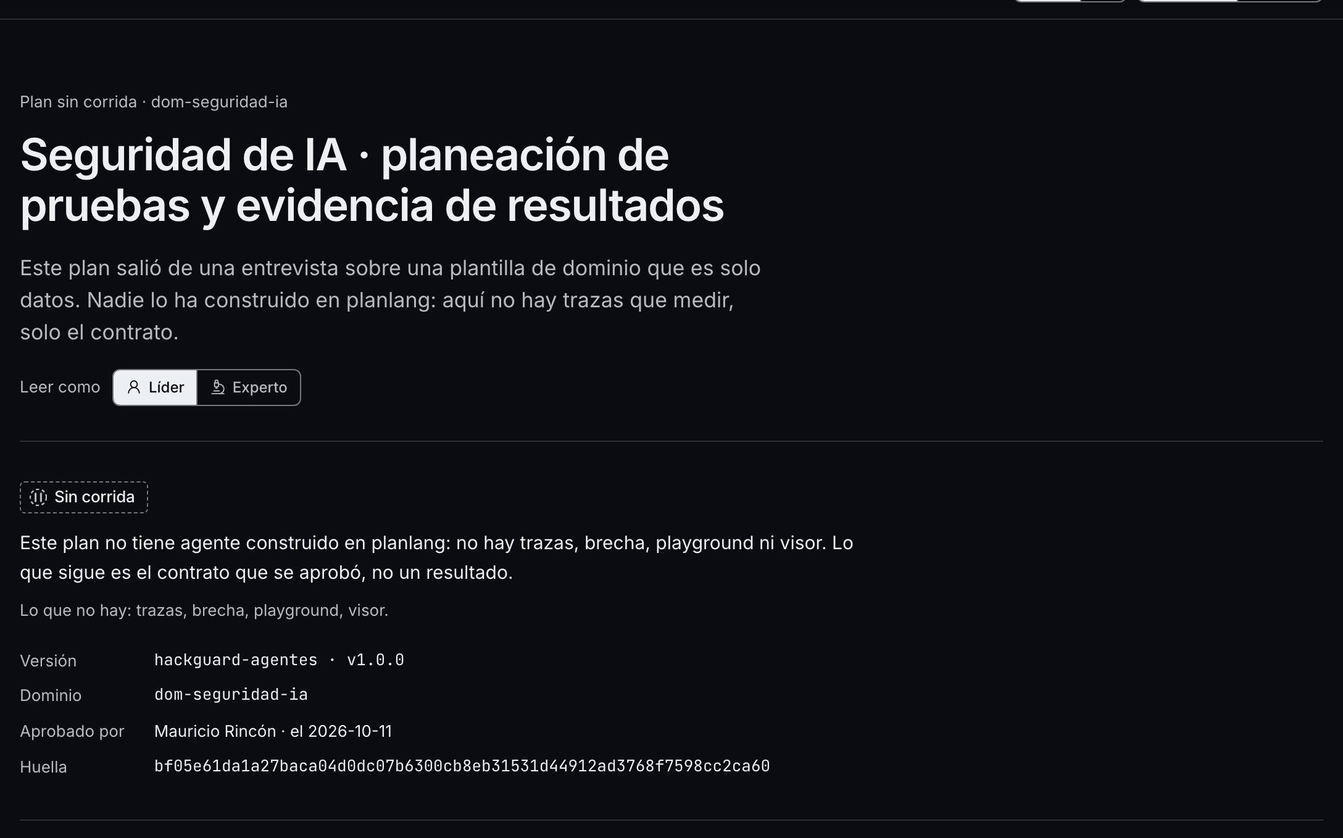
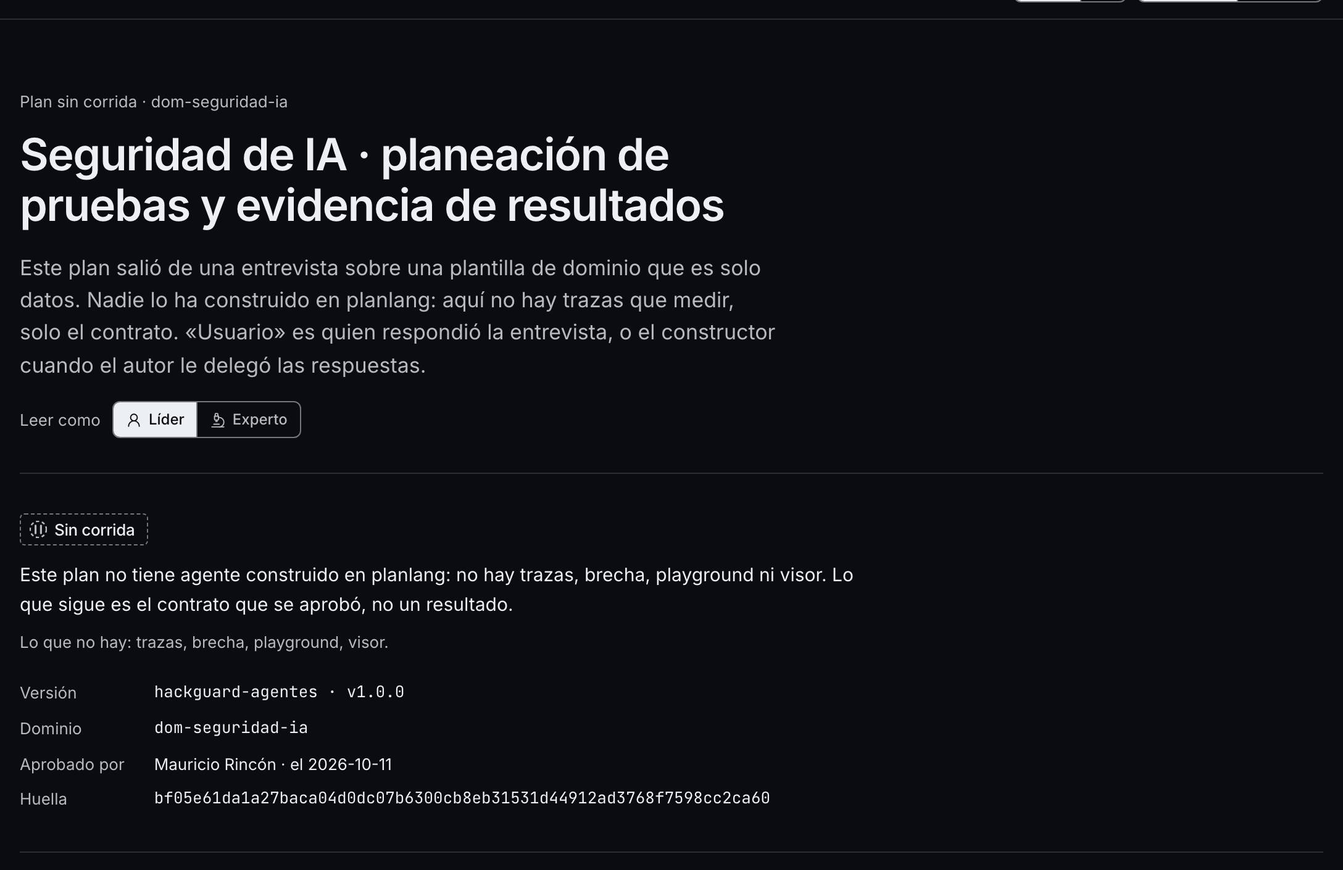
fix(audit): pay the medium findings of the plan without a run that cost less than noting them [F3]
M-1 (part): enums in words via the existing vocabularies (reversibility,
criticality, state, actor type, operator with its symbol), criteria show their
condition. M-2: four symbols without a reader removed. M-3: the portada says
what «usuario» means when answers were delegated; the entry chip is
«declarado», not «real». M-4: ids that name a demo (demo-*, plan-demo-*) are
rejected in TS and Python, with tests. M-5/M-6: manual and fichas no longer say
there are only two domain templates. B-1: the test comment tells the truth.
B-4: the guide's c5/c6 items are no longer nested inside s6.

Captures regenerated and read as image, 4 of 4; full unit suite 4257 passed;
e2e 225 passed, 3 skipped.

diff --git a/docs/fidelidad/s5-planes/index.html b/docs/fidelidad/s5-planes/index.html
@@ -27,8 +27,8 @@ table{border-collapse:collapse;width:100%;font-size:13px;margin-top:8px}th,td{bo
 <tbody>
 <tr><td>1</td><td>Entrada (/es), sección «Planes sin corrida»</td><td>tal como abre</td><td>Una fila por plan aprobado sin corrida, después de «Los demos»: nombre, id y versión, dominio, quién aprobó y cuándo, y el botón «Leer el plan».</td><td>Una sola fila: el plan de HackGuard (hackguard-agentes · v1.0.0 · dom-seguridad-ia), aprobado el 2026-10-11, con su chip «real · plan aprobado». Nada dice que haya corrido.</td><td>sin respuesta</td></tr>
 <tr><td>2</td><td>Plan sin corrida (/es/planes/hackguard-agentes), portada y ficha</td><td>tal como abre</td><td>Lo primero que se lee después del título: el rótulo «Sin corrida» con su símbolo, la nota de lo que NO hay y la ficha (versión, dominio, aprobado por, huella).</td><td>El rótulo «Sin corrida» se lee antes que cualquier sección del plan; la nota nombra trazas, brecha, playground y visor como ausentes; la ficha dice «Mauricio Rincón · el 2026-10-11» y la huella entera.</td><td>sin respuesta</td></tr>
-<tr><td>3</td><td>Plan sin corrida, decisiones (teléfono)</td><td>tal como abre, 380 px</td><td>Cada decisión en tarjeta: id, pregunta, la opción elegida, la razón y la reversibilidad; sin desplazamiento lateral (como líder, sin chip de origen).</td><td>Cuatro decisiones (D1–D4), todas decididas. La razón cabe en la tarjeta y nada se corta a 380 px.</td><td>sin respuesta</td></tr>
-<tr><td>4</td><td>Plan sin corrida, umbrales y origen (pasada de interacción)</td><td>tras pulsar «Experto»</td><td>Que al pulsar «Experto» aparezca, en cada umbral, el chip de quién lo propuso; los tres umbrales con su señal, operador y valor del plan.</td><td>U1 similitud_cita menor_que 1 · U2 fuentes_verificadas menor_que 2 · U3 antiguedad_marco_dias mayor_que 180 días; los tres con el chip «usuario», que como líder no se veía. El conmutador marca «Experto».</td><td>sin respuesta</td></tr>
+<tr><td>3</td><td>Plan sin corrida, decisiones (teléfono)</td><td>tal como abre, 380 px</td><td>Cada decisión en tarjeta: id, pregunta, la opción elegida, la razón y la reversibilidad; sin desplazamiento lateral (como líder, sin chip de origen).</td><td>Cuatro decisiones (D1–D4), todas decididas; la reversibilidad en palabras («Dos vías», «Costosa»), no en código. La razón cabe en la tarjeta y nada se corta a 380 px.</td><td>sin respuesta</td></tr>
+<tr><td>4</td><td>Plan sin corrida, umbrales y origen (pasada de interacción)</td><td>tras pulsar «Experto»</td><td>Que al pulsar «Experto» aparezca, en cada umbral, el chip de quién lo propuso; los tres umbrales con su señal, operador y valor del plan.</td><td>U1 similitud_cita &lt; 1 (menor que) · U2 fuentes_verificadas &lt; 2 · U3 antiguedad_marco_dias &gt; 180 días (mayor que); los tres con el chip «usuario», que como líder no se veía. El conmutador marca «Experto».</td><td>sin respuesta</td></tr>
 </tbody></table>
 <h2>Los recortes</h2>
 <section class="forma" id="entrada-planes-sin-corrida"><h3>1. Entrada (/es), sección «Planes sin corrida»</h3><p>tal como abre · 1280 px · oscuro</p><img loading="lazy" src="forma-entrada-planes-sin-corrida.jpg" alt="Una fila por plan aprobado sin corrida, después de «Los demos»: nombre, id y versión, dominio, quién aprobó y cuándo, y el botón «Leer el plan»."></section>
@@ -38,14 +38,14 @@ table{border-collapse:collapse;width:100%;font-size:13px;margin-top:8px}th,td{bo
 <h2>La pasada completa (8 capturas)</h2>
 <p>La Entrada y el plan sin corrida, a 380 y 1280 px, en español en los dos temas.. La miniatura es la parte de arriba; la huella identifica la captura entera que se leyó.</p>
 <div class="minis">
-<figure><img loading="lazy" src="mini-entrada-380-oscuro-es.jpg" alt="entrada 380 px oscuro es"><figcaption>entrada · 380 · oscuro · es<br><code title="SHA-256 de la captura entera">187f3c2d5ee1…</code></figcaption></figure>
-<figure><img loading="lazy" src="mini-entrada-1280-oscuro-es.jpg" alt="entrada 1280 px oscuro es"><figcaption>entrada · 1280 · oscuro · es<br><code title="SHA-256 de la captura entera">dfc4de46c8c5…</code></figcaption></figure>
-<figure><img loading="lazy" src="mini-entrada-380-claro-es.jpg" alt="entrada 380 px claro es"><figcaption>entrada · 380 · claro · es<br><code title="SHA-256 de la captura entera">c10df67208d3…</code></figcaption></figure>
-<figure><img loading="lazy" src="mini-entrada-1280-claro-es.jpg" alt="entrada 1280 px claro es"><figcaption>entrada · 1280 · claro · es<br><code title="SHA-256 de la captura entera">66a01f788665…</code></figcaption></figure>
-<figure><img loading="lazy" src="mini-plan-sin-corrida-380-oscuro-es.jpg" alt="plan-sin-corrida 380 px oscuro es"><figcaption>plan-sin-corrida · 380 · oscuro · es<br><code title="SHA-256 de la captura entera">3313257a71a9…</code></figcaption></figure>
-<figure><img loading="lazy" src="mini-plan-sin-corrida-1280-oscuro-es.jpg" alt="plan-sin-corrida 1280 px oscuro es"><figcaption>plan-sin-corrida · 1280 · oscuro · es<br><code title="SHA-256 de la captura entera">ebf0039abc5a…</code></figcaption></figure>
-<figure><img loading="lazy" src="mini-plan-sin-corrida-380-claro-es.jpg" alt="plan-sin-corrida 380 px claro es"><figcaption>plan-sin-corrida · 380 · claro · es<br><code title="SHA-256 de la captura entera">451575e817f7…</code></figcaption></figure>
-<figure><img loading="lazy" src="mini-plan-sin-corrida-1280-claro-es.jpg" alt="plan-sin-corrida 1280 px claro es"><figcaption>plan-sin-corrida · 1280 · claro · es<br><code title="SHA-256 de la captura entera">b8b5f218d490…</code></figcaption></figure>
+<figure><img loading="lazy" src="mini-entrada-380-oscuro-es.jpg" alt="entrada 380 px oscuro es"><figcaption>entrada · 380 · oscuro · es<br><code title="SHA-256 de la captura entera">94daf82923a4…</code></figcaption></figure>
+<figure><img loading="lazy" src="mini-entrada-1280-oscuro-es.jpg" alt="entrada 1280 px oscuro es"><figcaption>entrada · 1280 · oscuro · es<br><code title="SHA-256 de la captura entera">91b995d651c6…</code></figcaption></figure>
+<figure><img loading="lazy" src="mini-entrada-380-claro-es.jpg" alt="entrada 380 px claro es"><figcaption>entrada · 380 · claro · es<br><code title="SHA-256 de la captura entera">f4e5129a46f8…</code></figcaption></figure>
+<figure><img loading="lazy" src="mini-entrada-1280-claro-es.jpg" alt="entrada 1280 px claro es"><figcaption>entrada · 1280 · claro · es<br><code title="SHA-256 de la captura entera">625f4fe9fa51…</code></figcaption></figure>
+<figure><img loading="lazy" src="mini-plan-sin-corrida-380-oscuro-es.jpg" alt="plan-sin-corrida 380 px oscuro es"><figcaption>plan-sin-corrida · 380 · oscuro · es<br><code title="SHA-256 de la captura entera">a5cddbca5fa5…</code></figcaption></figure>
+<figure><img loading="lazy" src="mini-plan-sin-corrida-1280-oscuro-es.jpg" alt="plan-sin-corrida 1280 px oscuro es"><figcaption>plan-sin-corrida · 1280 · oscuro · es<br><code title="SHA-256 de la captura entera">852d0bc47729…</code></figcaption></figure>
+<figure><img loading="lazy" src="mini-plan-sin-corrida-380-claro-es.jpg" alt="plan-sin-corrida 380 px claro es"><figcaption>plan-sin-corrida · 380 · claro · es<br><code title="SHA-256 de la captura entera">9fdfc0d79bac…</code></figcaption></figure>
+<figure><img loading="lazy" src="mini-plan-sin-corrida-1280-claro-es.jpg" alt="plan-sin-corrida 1280 px claro es"><figcaption>plan-sin-corrida · 1280 · claro · es<br><code title="SHA-256 de la captura entera">e672debce4e2…</code></figcaption></figure>
 </div>
 </main></body>
 </html>

diff --git a/docs/GUIA-DE-PRUEBA.html b/docs/GUIA-DE-PRUEBA.html
@@ -228,9 +228,9 @@
         <span class="minimo"><span class="es">⭐ mínimo</span><span class="en" lang="en">⭐ minimum</span></span></label></li>
       <li data-origen="mejorado" data-minimo><input type="checkbox" id="s6"><label for="s6"><span class="es">En el demo A, abre Brecha y busca un caso con borde punteado (por ejemplo, en la fila de S3). Esperado: no enlaza a ninguna página y lo dice al lector de pantalla («sin página propia»); los que tienen página sí enlazan. Abre después A-016: la instrucción escondida va marcada aparte y el relato no la cuenta dos veces.</span><span class="en" lang="en">In demo A, open Gap and look for a case with a dotted border (for example, in the S3 row). Expected: it links to no page and tells the screen reader so (“no page of its own”); the ones with a page do link. Then open A-016: the hidden instruction is marked apart and the account does not tell it twice.</span>
         <span class="origen origen-mejorado"><span class="es">Mejorado en S4</span><span class="en" lang="en">Improved in S4</span></span>
+        <span class="minimo"><span class="es">⭐ mínimo</span><span class="en" lang="en">⭐ minimum</span></span></label></li>
       <li data-origen="nuevo" data-minimo><input type="checkbox" id="c5"><label for="c5"><span class="es">En la entrada, pulsa «Comparar» en la fila del demo A. Esperado: la pantalla «Comparar dos corridas», con «Cumple» en la multiagente y «Cumple con alertas» en la de agente único. Desde ahí, pulsa un caso de los que difieren: llegas a su página.</span><span class="en" lang="en">On the home page, press «Compare» on demo A's row. Expected: the «Compare two runs» screen, with «Meets» for the multi-agent run and «Meets with alerts» for the single-agent one. From there, press one of the cases that differ: you reach its page.</span><span class="origen origen-nuevo"><span class="es">Nuevo · S4</span><span class="en" lang="en">New · S4</span></span><span class="minimo"><span class="es">⭐ mínimo</span><span class="en" lang="en">⭐ minimum</span></span></label></li>
       <li data-origen="nuevo" data-minimo><input type="checkbox" id="c6"><label for="c6"><span class="es">En la entrada, baja hasta «Planes sin corrida» y pulsa «Leer el plan» en la fila de HackGuard. Esperado: la página abre con el rótulo «Sin corrida» y dice lo que no hay (trazas, brecha, playground, visor) antes de cualquier sección del plan; la ficha dice quién lo aprobó y cuándo, y la huella entera. Pulsa «Experto»: en cada decisión, riesgo y umbral aparece quién lo propuso (plantilla, entrevistador o usuario). ¿Se entiende, sin leer el repo, que esto es un contrato y no un resultado?</span><span class="en" lang="en">On the home page, scroll down to «Plans without a run» and press «Read the plan» on HackGuard's row. Expected: the page opens with the «No run» label and says what is missing (traces, gap, playground, viewer) before any section of the plan; the record says who approved it and when, and the full fingerprint. Press «Expert»: every decision, risk and threshold shows who proposed it (template, interviewer or user). Can you tell, without reading the repo, that this is a contract and not a result?</span><span class="origen origen-nuevo"><span class="es">Nuevo · S5</span><span class="en" lang="en">New · S5</span></span><span class="minimo"><span class="es">⭐ mínimo</span><span class="en" lang="en">⭐ minimum</span></span></label></li>
-        <span class="minimo"><span class="es">⭐ mínimo</span><span class="en" lang="en">⭐ minimum</span></span></label></li>
       <li data-origen="nuevo" data-minimo><input type="checkbox" id="s7"><label for="s7"><span class="es">En Fichas del demo B, lee la ficha del agente B como la vería alguien en tu hoja de vida. ¿La reconoces? ¿Algo promete más de lo que se midió?</span><span class="en" lang="en">On demo B's Records, read agent B's record as someone on your CV site would. Do you recognise it? Does anything promise more than what was measured?</span>
         <span class="origen origen-nuevo"><span class="es">Nuevo · S3</span><span class="en" lang="en">New · S3</span></span>
         <span class="minimo"><span class="es">⭐ mínimo</span><span class="en" lang="en">⭐ minimum</span></span></label></li>

diff --git a/src/lib/vista/plan-sin-corrida.ts b/src/lib/vista/plan-sin-corrida.ts
@@ -15,7 +15,15 @@ import {
   FICHA_SIN_CORRIDA,
   ORIGEN,
   SECCIONES,
+  TIPO_ACTOR,
 } from "@/textos/plan-sin-corrida";
+import {
+  CRITICIDAD,
+  ESTADO_SUPUESTO,
+  REVERSIBILIDAD,
+} from "@/textos/plan-comun";
+import { OPERADOR, SIMBOLO } from "@/textos/playground";
+import { delVocabulario } from "./vocabulario";
 
 export type Origen = keyof Omit<typeof ORIGEN, "sinOrigen">;
 
@@ -47,6 +55,14 @@ export interface VistaSinCorrida {
 
 const T = (x: TextoBilingue, i: Idioma): string => x[i];
 const L = (x: TextoLibre, i: Idioma): string => comoBilingue(x)[i];
+
+/** Un valor del plan en palabras: el vocabulario de la vitrina, no el enum crudo (AU-S5 M-1). */
+const palabra = (
+  voc: Readonly<Record<string, TextoBilingue>>,
+  valor: string,
+  donde: string,
+  i: Idioma,
+): string => delVocabulario(voc, valor, donde)[i];
 
 /** El origen en el idioma de la página; un elemento sin origen lo dice, no lo inventa. */
 function origenDe(x: { origen?: Origen }, i: Idioma): string {
@@ -84,7 +100,14 @@ export function vistaSinCorrida(p: Plan, i: Idioma): VistaSinCorrida {
         elementos: p.actores.map((a) => ({
           id: a.id,
           titulo: T({ es: a.es, en: a.en }, i),
-          detalle: [a.tipo],
+          detalle: [
+            palabra(
+              TIPO_ACTOR,
+              a.tipo,
+              "TIPO_ACTOR (src/textos/plan-sin-corrida.ts)",
+              i,
+            ),
+          ],
           origen: origenDe(a, i),
         })),
       },
@@ -101,7 +124,7 @@ export function vistaSinCorrida(p: Plan, i: Idioma): VistaSinCorrida {
             ...(d.justificacion
               ? [`${T(ETIQUETA.razon, i)}: ${T(d.justificacion, i)}`]
               : []),
-            `${T(ETIQUETA.reversibilidad, i)}: ${d.reversibilidad}`,
+            `${T(ETIQUETA.reversibilidad, i)}: ${palabra(REVERSIBILIDAD, d.reversibilidad, "REVERSIBILIDAD (src/textos/plan-comun.ts)", i)}`,
           ],
           origen: origenDe(d, i),
         })),
@@ -124,7 +147,9 @@ export function vistaSinCorrida(p: Plan, i: Idioma): VistaSinCorrida {
         elementos: p.supuestos.map((s) => ({
           id: s.id,
           titulo: T(s.enunciado, i),
-          detalle: [`${s.criticidad} · ${s.estado}`],
+          detalle: [
+            `${palabra(CRITICIDAD, s.criticidad, "CRITICIDAD (src/textos/plan-comun.ts)", i)} · ${palabra(ESTADO_SUPUESTO, s.estado, "ESTADO_SUPUESTO (src/textos/plan-comun.ts)", i)}`,
+          ],
           origen: origenDe(s, i),
         })),
       },
@@ -135,7 +160,8 @@ export function vistaSinCorrida(p: Plan, i: Idioma): VistaSinCorrida {
           id: k.id,
           titulo: T(k.enunciado, i),
           detalle: [
-            `${T(ETIQUETA.objetivo, i)}: ${String(k.valor_objetivo)} · ${T(ETIQUETA.criterio, i)}: ${k.regla_de_medicion.agregacion}`,
+            `${T(ETIQUETA.objetivo, i)}: ${String(k.valor_objetivo)} · ${k.regla_de_medicion.agregacion}`,
+            `${T(ETIQUETA.criterio, i)}: ${k.regla_de_medicion.condicion ?? k.regla_de_medicion.metrica ?? ""} · ${k.regla_de_medicion.poblacion}`,
           ],
           origen: origenDe(k, i),
         })),
@@ -147,7 +173,7 @@ export function vistaSinCorrida(p: Plan, i: Idioma): VistaSinCorrida {
           id: u.id,
           titulo: T(u.nombre, i),
           detalle: [
-            `${u.senal} ${u.operador} ${String(u.valor_en_plan)}${u.unidad ? ` ${L(u.unidad, i)}` : ""}`,
+            `${u.senal} ${SIMBOLO[u.operador]} ${String(u.valor_en_plan)}${u.unidad ? ` ${L(u.unidad, i)}` : ""} (${palabra(OPERADOR, u.operador, "OPERADOR (src/textos/playground.ts)", i)})`,
           ],
           origen: origenDe(u, i),
         })),

diff --git a/src/textos/plan-sin-corrida.ts b/src/textos/plan-sin-corrida.ts
@@ -32,7 +32,12 @@ export const SECCIONES = {
   criterios: tb("Criterios de aceptación", "Acceptance criteria"),
   umbrales: tb("Umbrales", "Thresholds"),
   contrato: tb("Contrato del grafo", "Graph contract"),
-  lotes: tb("Lotes", "Batches"),
+};
+
+/** El tipo de un actor (`core/plan/esquema.ts` TIPO_ACTOR), en palabras. */
+export const TIPO_ACTOR = {
+  humano: tb("persona", "person"),
+  sistema: tb("sistema", "system"),
 };
 
 export const ETIQUETA = {
@@ -49,11 +54,9 @@ export const ETIQUETA = {
   deteccion: tb("Detección", "Detection"),
   criterio: tb("Regla de medición", "Measurement rule"),
   objetivo: tb("Objetivo", "Target"),
-  valorEnPlan: tb("Valor en el plan", "Value in the plan"),
   nodos: tb("nodos", "nodes"),
   aristas: tb("aristas condicionales", "conditional edges"),
   pausas: tb("pausas humanas", "human pauses"),
-  sinValor: tb("sin valor todavía", "no value yet"),
 };
 
 export const TITULO_PAGINA = (id: string) => tb(`Plan ${id}`, `Plan ${id}`);
@@ -65,8 +68,8 @@ export const DESCRIPCION_PAGINA = tb(
 export const PORTADA = {
   antetitulo: tb("Plan sin corrida", "Plan without a run"),
   guia: tb(
-    "Este plan salió de una entrevista sobre una plantilla de dominio que es solo datos. Nadie lo ha construido en planlang: aquí no hay trazas que medir, solo el contrato.",
-    "This plan came from an interview over a domain template that is only data. No one has built it in planlang: there are no traces to measure here, only the contract.",
+    "Este plan salió de una entrevista sobre una plantilla de dominio que es solo datos. Nadie lo ha construido en planlang: aquí no hay trazas que medir, solo el contrato. «Usuario» es quien respondió la entrevista, o el constructor cuando el autor le delegó las respuestas.",
+    "This plan came from an interview over a domain template that is only data. No one has built it in planlang: there are no traces to measure here, only the contract. «User» is whoever answered the interview, or the builder when the author delegated the answers.",
   ),
   origenes: tb(
     "Quién propuso cada elemento: la plantilla del dominio, el entrevistador o la persona que respondió.",
@@ -82,7 +85,7 @@ export const ENTRADA = {
     "Planned with the interviewer over a new domain. No agent, no traces: only the contract.",
   ),
   abrir: tb("Leer el plan", "Read the plan"),
-  chip: tb("real · plan aprobado", "real · approved plan"),
+  chip: tb("plan aprobado · sin corrida", "approved plan · no run"),
   columnas: {
     plan: tb("Plan", "Plan"),
     dominio: tb("Dominio", "Domain"),

diff --git a/tests/unit/core/plan/dominio-nuevo.test.ts b/tests/unit/core/plan/dominio-nuevo.test.ts
@@ -1,7 +1,9 @@
 /**
- * «Un dominio nuevo no toca `core/`» (S5, promesa D6): el CLI acepta cualquier plantilla de `data/dominios/` y cualquier
+ * «Un dominio nuevo es solo datos» (S5, promesa D6): el CLI acepta cualquier plantilla de `data/dominios/` y cualquier
  * id de plan; los demos siguen funcionando igual; y la plantilla `dom-seguridad-ia` es solo un archivo de datos que
- * pasa el esquema de dominio (el recorrido de la entrevista lo prueba el gate de contrato).
+ * pasa el esquema de dominio (el recorrido de la entrevista lo prueba el gate de contrato). Hallazgo del sprint: la
+ * revisión del borrador (`core/plan/revision.ts`) suponía que todo plan era `plan-demo-<x>`; se generalizó con
+ * `objetivoDelPlan`. Ningún módulo de `core/` nombra un dominio, y eso sí se vigila aquí.
  */
 import { existsSync, readdirSync, readFileSync } from "node:fs";
 import { describe, expect, it } from "vitest";
@@ -45,6 +47,9 @@ describe("el CLI entrevista un demo o un plan real", () => {
       { dominio: "dom-financiero", plan: "a/../b" },
       { dominio: "dom-financiero", plan: "a b" },
       { dominio: "dom-financiero", plan: true },
+      // El nombre de un demo (AU-S5 M-4): compartiría carpeta, hilo y revisión con él.
+      { dominio: "dom-financiero", plan: "demo-b" },
+      { dominio: "dom-financiero", plan: "plan-demo-x" },
     ];
     for (const a of rechazados)
       expect(objetivoDeEntrevista(a), JSON.stringify(a)).toBeNull();

diff --git a/tests/unit/vitrina/plan-sin-corrida.test.ts b/tests/unit/vitrina/plan-sin-corrida.test.ts
@@ -69,6 +69,26 @@ describe("vistaSinCorrida", () => {
     expect(decisionesUsuario).toBe(p.decisiones.length);
   });
 
+  it("ningún enum del plan sale crudo: reversibilidad, criticidad, estado, tipo de actor y operador van en palabras (AU-S5 M-1)", async () => {
+    const p = await aprobado();
+    for (const i of ["es", "en"] as const) {
+      const v = vistaSinCorrida(p, i);
+      const detalles = v.secciones.flatMap((s) =>
+        s.elementos.flatMap((e) => e.detalle),
+      );
+      for (const d of detalles)
+        expect(d).not.toMatch(
+          /\b(una_via|dos_vias|costosa|sin_probar|menor_que|mayor_que|menor_o_igual_que|mayor_o_igual_que|igual_a|distinto_de)\b/,
+        );
+    }
+    const dec = vistaSinCorrida(p, "es").secciones.find(
+      (s) => s.id === "decisiones",
+    )!.elementos[0]!;
+    expect(dec.detalle.at(-1)).toMatch(
+      /^Reversibilidad: (Una vía|Dos vías|Costosa)$/,
+    );
+  });
+
   it("los umbrales dicen su señal, su operador y su valor del plan, sin unidad inventada", async () => {
     const p = await aprobado();
     const umbral = vistaSinCorrida(p, "en").secciones.find(

diff --git a/scripts/entrevistar.ts b/scripts/entrevistar.ts
@@ -36,6 +36,8 @@ const USO_OBJETIVO = `(--demo ${DEMOS_ENTREVISTABLES.join("|")} | --dominio <id>
 const SALIDA_GUARDADA = 3;
 /** El mismo patrón de id estable que el plan: va al nombre de una carpeta, así que nada de barras ni `..`. */
 const ID_ESTABLE = /^[A-Za-z][A-Za-z0-9_-]*$/;
+/** Lo que nombra a un demo (`demo-b`, `plan-demo-b`): un plan real no puede compartir carpeta, hilo ni revisión con uno (AU-S5 M-4). */
+const DE_DEMO = /^(plan-)?demo-/;
 
 /** Qué se entrevista y dónde queda: un demo (`--demo b`) o un plan real (`--dominio <id> --plan <id>`). */
 export interface ObjetivoDeEntrevista {
@@ -59,7 +61,8 @@ export function objetivoDeEntrevista(
     typeof dominio === "string" &&
     typeof plan === "string" &&
     ID_ESTABLE.test(dominio) &&
-    ID_ESTABLE.test(plan)
+    ID_ESTABLE.test(plan) &&
+    !DE_DEMO.test(plan)
   )
     return {
       pasar: ["--dominio", dominio, "--plan", plan],

diff --git a/src/textos/fichas.ts b/src/textos/fichas.ts
@@ -1028,8 +1028,8 @@ export const APP = {
             "Domain templates as data",
           ),
           que_hace: tb(
-            "Actores, decisiones, riesgos y criterios típicos de salud y de vinculación financiera, con las restricciones legales en lenguaje llano y con su fuente.",
-            "Typical actors, decisions, risks and criteria for health and financial onboarding, with the legal constraints in plain language and with their source.",
+            "Actores, decisiones, riesgos y criterios típicos de salud, de vinculación financiera y de seguridad de IA, con las restricciones legales en lenguaje llano y con su fuente.",
+            "Typical actors, decisions, risks and criteria for health, financial onboarding and AI security, with the legal constraints in plain language and with their source.",
           ),
           seccion_manual: tb("Validar un plan", "Validate a plan"),
         },

diff --git a/src/components/entrada/planes.tsx b/src/components/entrada/planes.tsx
@@ -64,7 +64,7 @@ export function PlanesSinCorrida({
             </div>
             <div role="cell" className="grid justify-items-start gap-1.5">
               <span className="text-chico text-tinta-2">{f.aprobacion}</span>
-              <Chip procedencia="real">{ENTRADA.chip[idioma]}</Chip>
+              <Chip procedencia="declarado">{ENTRADA.chip[idioma]}</Chip>
             </div>
             <div role="cell" className="grid justify-items-start gap-1.5">
               <BotonEnlace href={ruta(idioma, "planes", f.id, "demo-a")} chico>

diff --git a/tests/e2e/planes.spec.ts b/tests/e2e/planes.spec.ts
@@ -60,7 +60,7 @@ test.describe("Plan sin corrida (es)", () => {
     await expect(decisiones.first()).toContainText("usuario");
     await expect(
       page.locator('section[aria-labelledby="ps-umbrales-t"]'),
-    ).toContainText("antiguedad_marco_dias mayor_que 180 días");
+    ).toContainText("antiguedad_marco_dias > 180 días (mayor que)");
   });
 
   for (const tema of ["oscuro", "claro"])

diff --git a/agents/src/app_agents/entrevistador/cli.py b/agents/src/app_agents/entrevistador/cli.py
@@ -59,6 +59,9 @@ DEMOS = {"b": Demo(id="b", plan_id="plan-demo-b", dominio="dom-financiero", dire
 # Un id estable (el mismo patrón que el plan en TypeScript): letras, dígitos, `_` y `-`. Va al nombre de una
 # carpeta y de un archivo, así que nada de barras ni `..`.
 _ID_ESTABLE = re.compile(r"^[A-Za-z][A-Za-z0-9_-]*$")
+# Lo que nombra a un demo (`demo-b`, `plan-demo-b`): un plan real no comparte carpeta ni hilo con uno
+# (AU-S5 M-4).
+_DE_DEMO = re.compile(r"^(plan-)?demo-")
 
 
 class DominioOPlanInvalido(ValueError):
@@ -70,6 +73,8 @@ def demo_de_dominio(dominio: str, plan: str, raiz: Path = RAIZ_REPO) -> Demo:
     for nombre, valor in (("--dominio", dominio), ("--plan", plan)):
         if not _ID_ESTABLE.match(valor):
             raise DominioOPlanInvalido(f"{nombre} «{valor}»: un id estable (letras, dígitos, _ y -)")
+    if _DE_DEMO.match(plan):
+        raise DominioOPlanInvalido(f"--plan «{plan}»: ese nombre es de un demo; un plan real lleva otro id")
     if not (raiz / "data" / "dominios" / f"{dominio}.json").is_file():
         raise DominioOPlanInvalido(f"--dominio «{dominio}»: no existe data/dominios/{dominio}.json")
     return Demo(id=plan, plan_id=plan, dominio=dominio, directorio=f"plans/{plan}", identificador=plan)

diff --git a/agents/tests/test_dominio_nuevo.py b/agents/tests/test_dominio_nuevo.py
@@ -61,6 +61,8 @@ def test_un_plan_real_no_choca_con_los_demos() -> None:
         (DOMINIO, "con espacio"),
         (DOMINIO, ""),
         ("dom-que-no-existe", "p"),
+        (DOMINIO, "demo-b"),  # el nombre de un demo (AU-S5 M-4)
+        (DOMINIO, "plan-demo-x"),
     ],
 )
 def test_un_id_que_no_es_estable_o_una_plantilla_que_no_existe_se_rechazan(dominio: str, plan: str) -> None:
